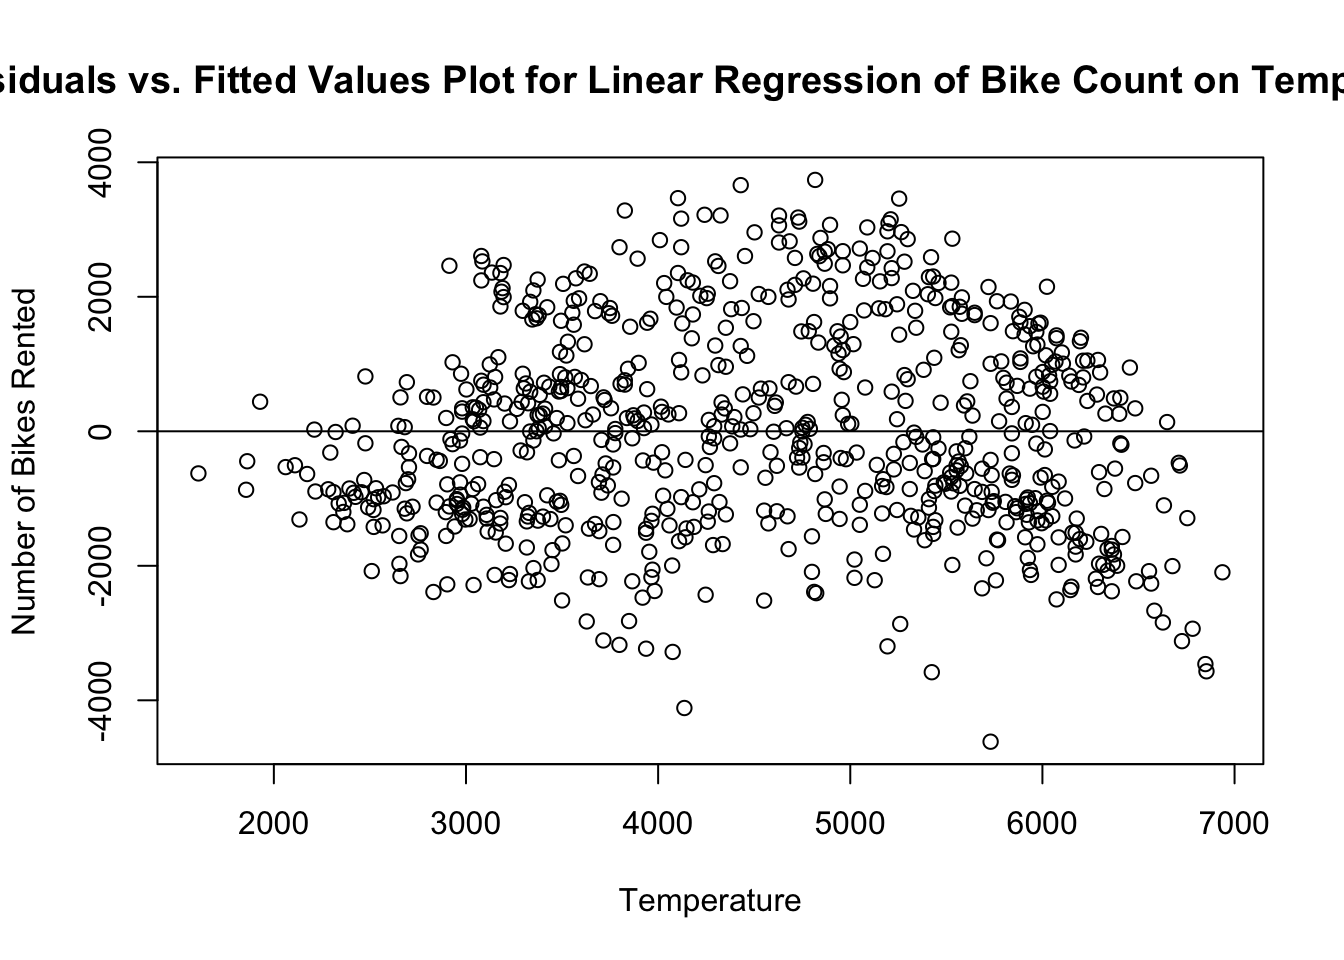
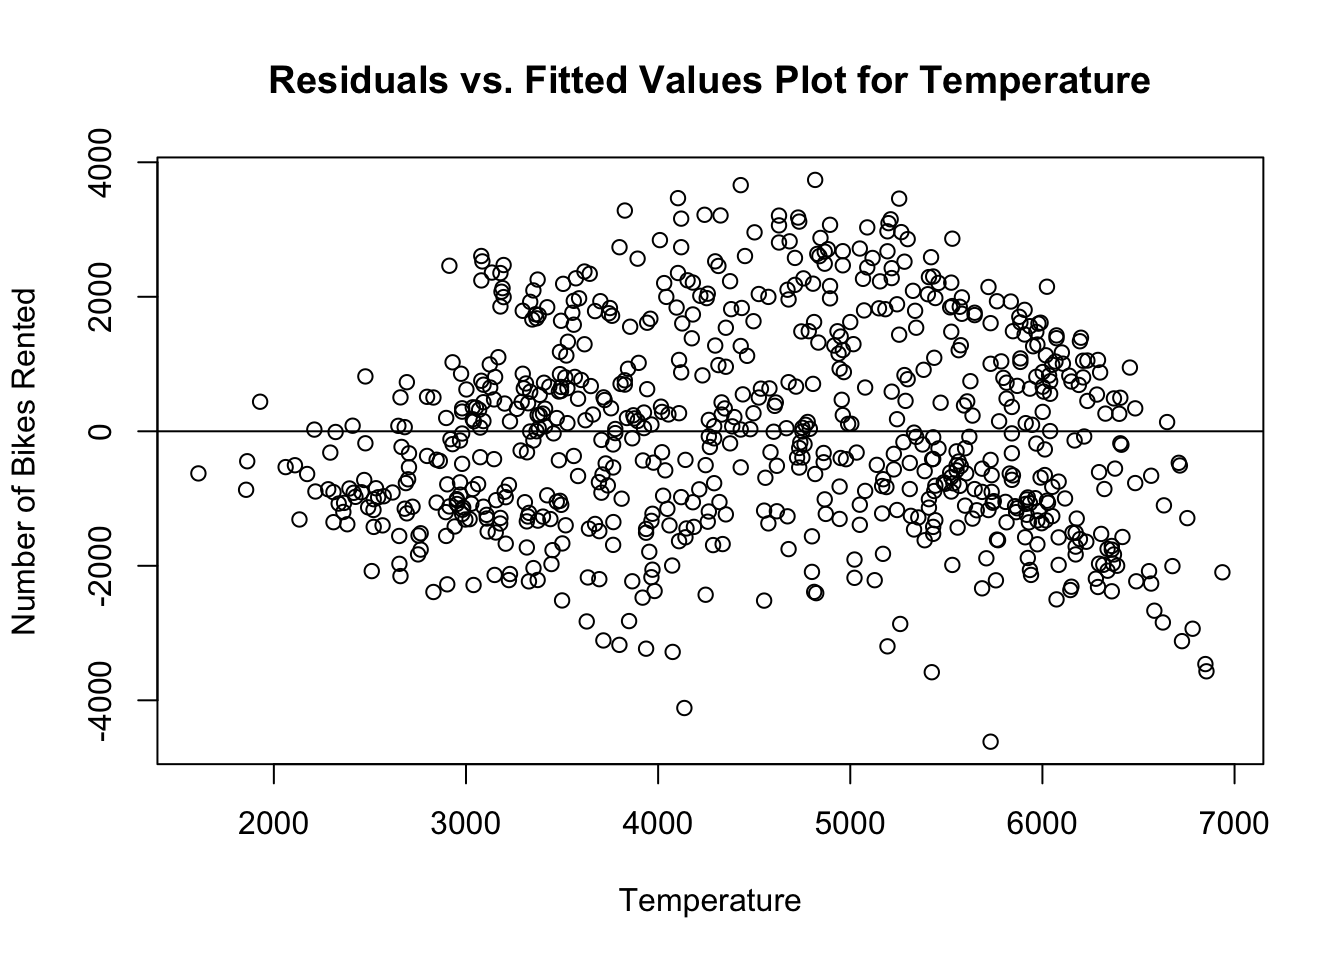
fix title

Changed region(s): [[0.0, 0.0625, 1.0, 0.125]]

diff --git a/BikeSharing/SharingBike.html b/BikeSharing/SharingBike.html
@@ -630,7 +630,7 @@ F-statistic: 70.73 on 1 and 729 DF,  p-value: &lt; 2.2e-16</code></pre>
 <span id="cb88-4"><a href="#cb88-4" aria-hidden="true" tabindex="-1"></a><span class="fu">plot</span>(<span class="fu">fitted</span>(model1), res,</span>
 <span id="cb88-5"><a href="#cb88-5" aria-hidden="true" tabindex="-1"></a>     <span class="at">xlab =</span> <span class="st">"Temperature"</span>,</span>
 <span id="cb88-6"><a href="#cb88-6" aria-hidden="true" tabindex="-1"></a>     <span class="at">ylab =</span> <span class="st">"Number of Bikes Rented"</span>,</span>
-<span id="cb88-7"><a href="#cb88-7" aria-hidden="true" tabindex="-1"></a>     <span class="at">main =</span> <span class="st">"Residuals vs. Fitted Values Plot for Linear Regression of Bike Count on Temperature"</span>)</span>
+<span id="cb88-7"><a href="#cb88-7" aria-hidden="true" tabindex="-1"></a>     <span class="at">main =</span> <span class="st">"Residuals vs. Fitted Values Plot for Temperature"</span>)</span>
 <span id="cb88-8"><a href="#cb88-8" aria-hidden="true" tabindex="-1"></a><span class="fu">abline</span>(<span class="dv">0</span>,<span class="dv">0</span>)</span></code><button title="Copy to Clipboard" class="code-copy-button"><i class="bi"></i></button></pre></div>
 <div class="cell-output-display">
 <p><img src="SharingBike_files/figure-html/unnamed-chunk-15-1.png" class="img-fluid" width="672"></p>
@@ -640,7 +640,7 @@ F-statistic: 70.73 on 1 and 729 DF,  p-value: &lt; 2.2e-16</code></pre>
 <span id="cb89-3"><a href="#cb89-3" aria-hidden="true" tabindex="-1"></a><span class="fu">plot</span>(<span class="fu">fitted</span>(model2), res2,</span>
 <span id="cb89-4"><a href="#cb89-4" aria-hidden="true" tabindex="-1"></a>     <span class="at">xlab =</span> <span class="st">"Feeling Temperature"</span>,</span>
 <span id="cb89-5"><a href="#cb89-5" aria-hidden="true" tabindex="-1"></a>     <span class="at">ylab =</span> <span class="st">"Number of Bikes Rented"</span>,</span>
-<span id="cb89-6"><a href="#cb89-6" aria-hidden="true" tabindex="-1"></a>     <span class="at">main =</span> <span class="st">"Residuals vs. Fitted Values Plot for Linear Regression of Bike Count on Feeling Temperature"</span>)</span>
+<span id="cb89-6"><a href="#cb89-6" aria-hidden="true" tabindex="-1"></a>     <span class="at">main =</span> <span class="st">"Residuals vs. Fitted Values Plot for Feeling Temperature"</span>)</span>
 <span id="cb89-7"><a href="#cb89-7" aria-hidden="true" tabindex="-1"></a><span class="fu">abline</span>(<span class="dv">0</span>,<span class="dv">0</span>)</span></code><button title="Copy to Clipboard" class="code-copy-button"><i class="bi"></i></button></pre></div>
 <div class="cell-output-display">
 <p><img src="SharingBike_files/figure-html/unnamed-chunk-15-2.png" class="img-fluid" width="672"></p>
@@ -650,7 +650,7 @@ F-statistic: 70.73 on 1 and 729 DF,  p-value: &lt; 2.2e-16</code></pre>
 <span id="cb90-3"><a href="#cb90-3" aria-hidden="true" tabindex="-1"></a><span class="fu">plot</span>(<span class="fu">fitted</span>(model3), res3,</span>
 <span id="cb90-4"><a href="#cb90-4" aria-hidden="true" tabindex="-1"></a>     <span class="at">xlab =</span> <span class="st">"Wind Speed"</span>,</span>
 <span id="cb90-5"><a href="#cb90-5" aria-hidden="true" tabindex="-1"></a>     <span class="at">ylab =</span> <span class="st">"Number of Bikes Rented"</span>,</span>
-<span id="cb90-6"><a href="#cb90-6" aria-hidden="true" tabindex="-1"></a>     <span class="at">main =</span> <span class="st">"Residuals vs. Fitted Values Plot for Linear Regression of Bike Count on Wind Speed"</span>)</span>
+<span id="cb90-6"><a href="#cb90-6" aria-hidden="true" tabindex="-1"></a>     <span class="at">main =</span> <span class="st">"Residuals vs. Fitted Values Plot for Wind Speed"</span>)</span>
 <span id="cb90-7"><a href="#cb90-7" aria-hidden="true" tabindex="-1"></a><span class="fu">abline</span>(<span class="dv">0</span>,<span class="dv">0</span>)</span></code><button title="Copy to Clipboard" class="code-copy-button"><i class="bi"></i></button></pre></div>
 <div class="cell-output-display">
 <p><img src="SharingBike_files/figure-html/unnamed-chunk-15-3.png" class="img-fluid" width="672"></p>
@@ -660,7 +660,7 @@ F-statistic: 70.73 on 1 and 729 DF,  p-value: &lt; 2.2e-16</code></pre>
 <span id="cb91-3"><a href="#cb91-3" aria-hidden="true" tabindex="-1"></a><span class="fu">plot</span>(<span class="fu">fitted</span>(model4), res4,</span>
 <span id="cb91-4"><a href="#cb91-4" aria-hidden="true" tabindex="-1"></a>     <span class="at">xlab =</span> <span class="st">"Humidity"</span>,</span>
 <span id="cb91-5"><a href="#cb91-5" aria-hidden="true" tabindex="-1"></a>     <span class="at">ylab =</span> <span class="st">"Number of Bikes Rented"</span>,</span>
-<span id="cb91-6"><a href="#cb91-6" aria-hidden="true" tabindex="-1"></a>     <span class="at">main =</span> <span class="st">"Residuals vs. Fitted Values Plot for Linear Regression of Bike Count on Humidity"</span>)</span>
+<span id="cb91-6"><a href="#cb91-6" aria-hidden="true" tabindex="-1"></a>     <span class="at">main =</span> <span class="st">"Residuals vs. Fitted Values Plot for Humidity"</span>)</span>
 <span id="cb91-7"><a href="#cb91-7" aria-hidden="true" tabindex="-1"></a><span class="fu">abline</span>(<span class="dv">0</span>,<span class="dv">0</span>)</span></code><button title="Copy to Clipboard" class="code-copy-button"><i class="bi"></i></button></pre></div>
 <div class="cell-output-display">
 <p><img src="SharingBike_files/figure-html/unnamed-chunk-15-4.png" class="img-fluid" width="672"></p>
@@ -747,7 +747,7 @@ Chisquare = 4.921905, Df = 1, p = 0.026518</code></pre>
 </div>
 <div class="sourceCode cell-code" id="cb110"><pre class="sourceCode r code-with-copy"><code class="sourceCode r"><span id="cb110-1"><a href="#cb110-1" aria-hidden="true" tabindex="-1"></a><span class="co">#wind</span></span>
 <span id="cb110-2"><a href="#cb110-2" aria-hidden="true" tabindex="-1"></a>res_wind <span class="ot">&lt;-</span> <span class="fu">resid</span>(model_wind)</span>
-<span id="cb110-3"><a href="#cb110-3" aria-hidden="true" tabindex="-1"></a><span class="fu">plot</span>(<span class="fu">fitted</span>(model_wind), res_wind, <span class="at">main=</span><span class="st">"Fitted vs Residuals Plot for Wind"</span>, <span class="at">xlab=</span><span class="st">"Fitted Values"</span>, <span class="at">ylab=</span><span class="st">"Residuals"</span>)</span>
+<span id="cb110-3"><a href="#cb110-3" aria-hidden="true" tabindex="-1"></a><span class="fu">plot</span>(<span class="fu">fitted</span>(model_wind), res_wind, <span class="at">main=</span><span class="st">"Fitted vs Residuals Plot for Wind Speed"</span>, <span class="at">xlab=</span><span class="st">"Fitted Values"</span>, <span class="at">ylab=</span><span class="st">"Residuals"</span>)</span>
 <span id="cb110-4"><a href="#cb110-4" aria-hidden="true" tabindex="-1"></a><span class="fu">abline</span>(<span class="dv">0</span>,<span class="dv">0</span>)</span></code><button title="Copy to Clipboard" class="code-copy-button"><i class="bi"></i></button></pre></div>
 <div class="cell-output-display">
 <p><img src="SharingBike_files/figure-html/unnamed-chunk-16-3.png" class="img-fluid" width="672"></p>
@@ -807,7 +807,7 @@ Chisquare = 4.921905, Df = 1, p = 0.026518</code></pre>
 <div class="cell-output cell-output-stdout">
 <pre><code>function (x, y, ...) 
 UseMethod("plot")
-&lt;bytecode: 0x10cef9590&gt;
+&lt;bytecode: 0x1517add58&gt;
 &lt;environment: namespace:base&gt;</code></pre>
 </div>
 <div class="sourceCode cell-code" id="cb120"><pre class="sourceCode r code-with-copy"><code class="sourceCode r"><span id="cb120-1"><a href="#cb120-1" aria-hidden="true" tabindex="-1"></a><span class="co">#sqrt both</span></span>
@@ -831,7 +831,7 @@ UseMethod("plot")
 <div class="cell-output cell-output-stdout">
 <pre><code>function (x, y, ...) 
 UseMethod("plot")
-&lt;bytecode: 0x10cef9590&gt;
+&lt;bytecode: 0x1517add58&gt;
 &lt;environment: namespace:base&gt;</code></pre>
 </div>
 <div class="sourceCode cell-code" id="cb124"><pre class="sourceCode r code-with-copy"><code class="sourceCode r"><span id="cb124-1"><a href="#cb124-1" aria-hidden="true" tabindex="-1"></a><span class="co">#sqrt y</span></span>
@@ -855,7 +855,7 @@ UseMethod("plot")
 <div class="cell-output cell-output-stdout">
 <pre><code>function (x, y, ...) 
 UseMethod("plot")
-&lt;bytecode: 0x10cef9590&gt;
+&lt;bytecode: 0x1517add58&gt;
 &lt;environment: namespace:base&gt;</code></pre>
 </div>
 </div>
@@ -890,7 +890,7 @@ UseMethod("plot")
 <div class="cell-output cell-output-stdout">
 <pre><code>function (x, y, ...) 
 UseMethod("plot")
-&lt;bytecode: 0x10cef9590&gt;
+&lt;bytecode: 0x1517add58&gt;
 &lt;environment: namespace:base&gt;</code></pre>
 </div>
 <div class="sourceCode cell-code" id="cb133"><pre class="sourceCode r code-with-copy"><code class="sourceCode r"><span id="cb133-1"><a href="#cb133-1" aria-hidden="true" tabindex="-1"></a>tq2 <span class="ot">&lt;-</span> <span class="fu">qnorm</span>(<span class="fu">ppoints</span>(<span class="fu">length</span>(res2)))</span>
@@ -903,7 +903,7 @@ UseMethod("plot")
 <div class="cell-output cell-output-stdout">
 <pre><code>function (x, y, ...) 
 UseMethod("plot")
-&lt;bytecode: 0x10cef9590&gt;
+&lt;bytecode: 0x1517add58&gt;
 &lt;environment: namespace:base&gt;</code></pre>
 </div>
 </div>
